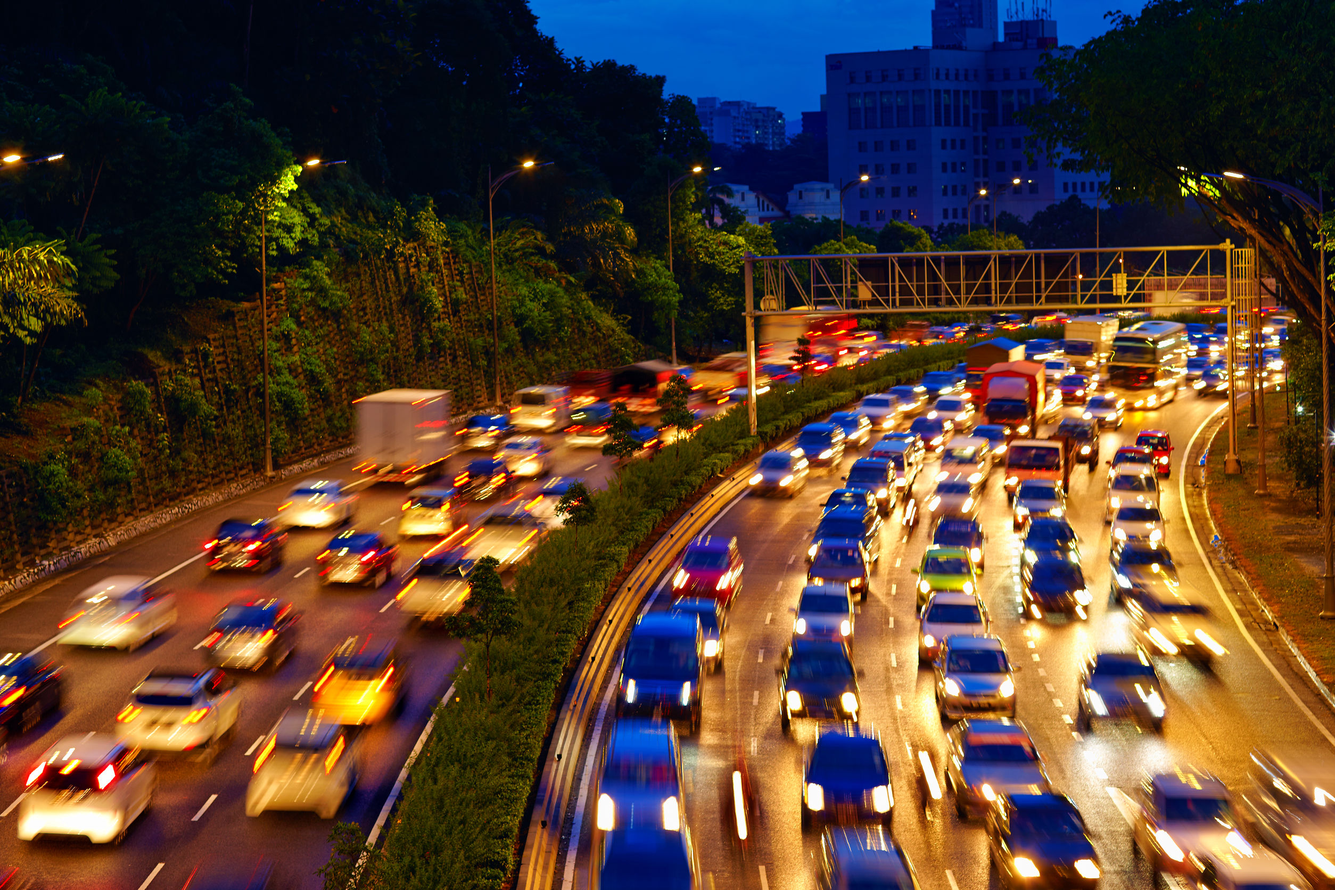
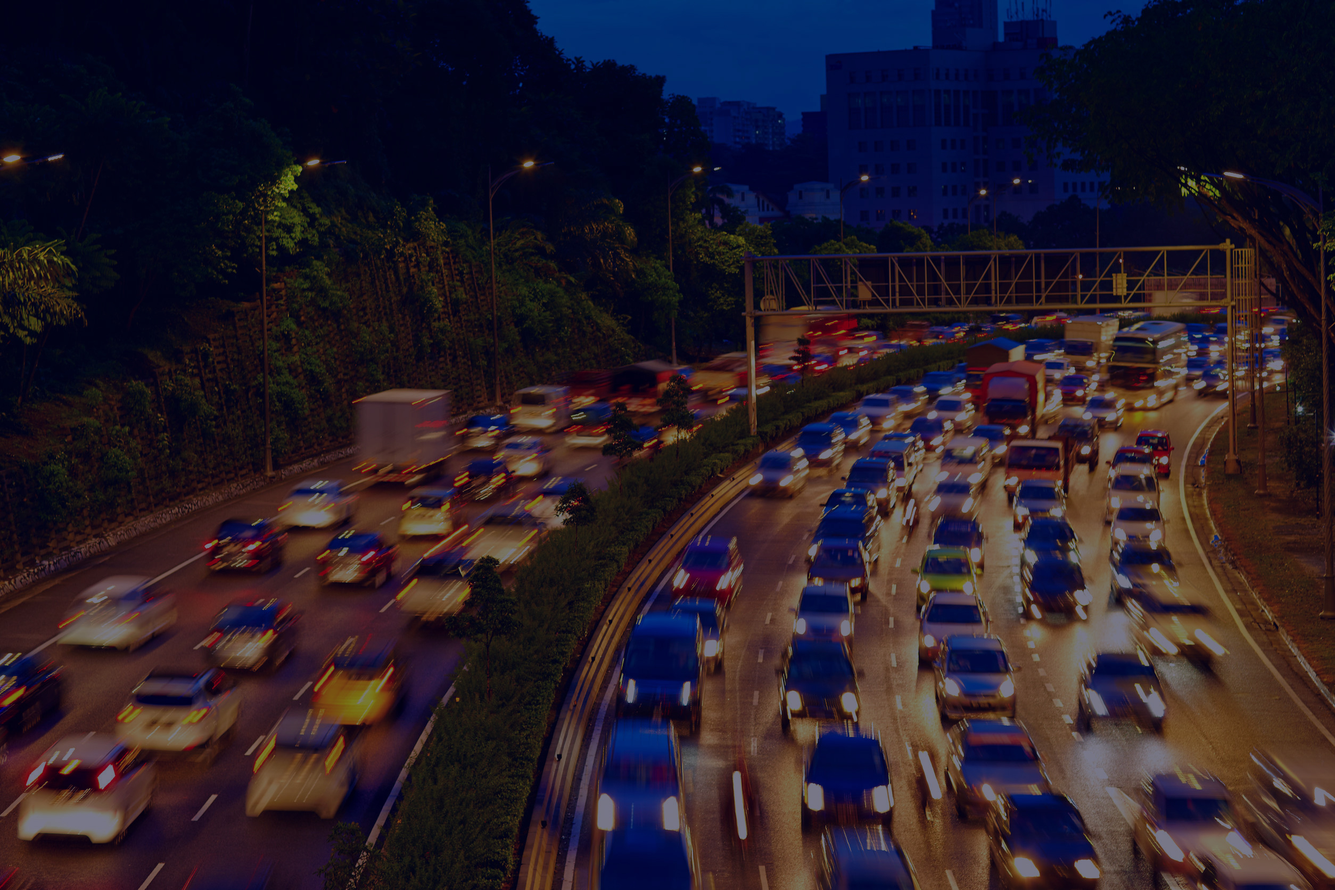
make the header bg image darker

diff --git a/index.html b/index.html
@@ -37,7 +37,7 @@
             <div class="container">
                 <div class="masthead-subheading">מילכה אביחן - משרד עורכי דין</div>
                 <div class="masthead-heading text-uppercase">It's Nice To Meet You</div>
-                <a class="btn btn-primary btn-xl text-uppercase js-scroll-trigger" href="#services">ספר לי עוד</a>
+                <a class="btn btn-primary btn-xl text-uppercase js-scroll-trigger" href="tel:050-7516112">050-7516112</a>
             </div>
         </header>
         <!-- Services-->

diff --git a/css/styles.css b/css/styles.css
@@ -10113,7 +10113,7 @@ img::-moz-selection {
     transition: font-size 0.3s ease-in-out;
   }
   #mainNav .navbar-brand img {
-    height: 2rem;
+    height: 4rem;
     transition: height 0.3s ease-in-out;
   }
   #mainNav.navbar-shrink {
